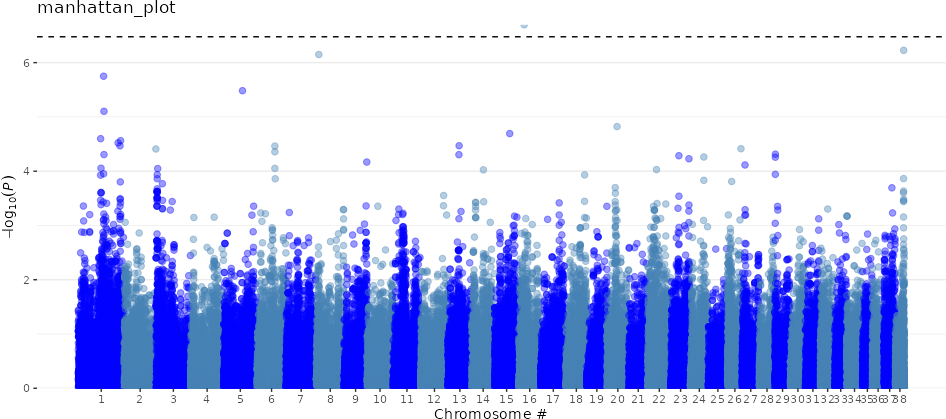
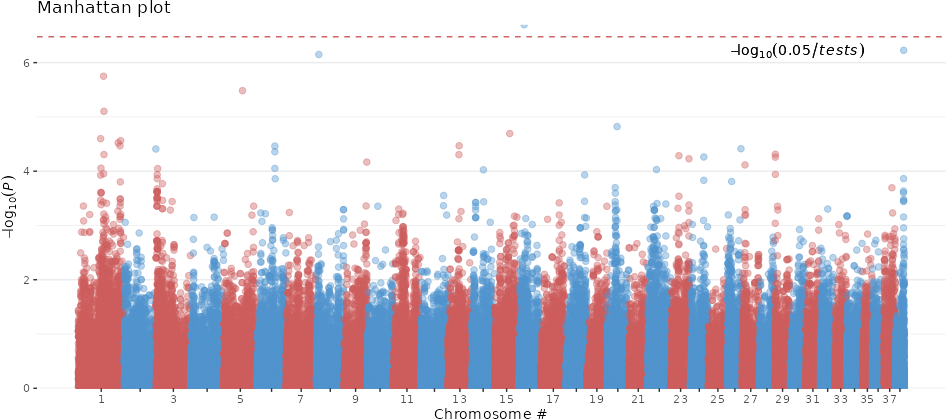
manhattan

diff --git a/README.md b/README.md
@@ -6,7 +6,7 @@ This repository contains a collection of genomic projects that I am working on.
 GitHub repository of bioinformatic projects recolving around genomics using
 different tools like Plink through `plinkr` R package, `rTASSEL` and TASSEL 5
 (GUI), GEMMA for mixed models analysis in R, SAMtools from the command line to
-analyze BAM files.
+analyze BAM files, gBLUP coming soon.
 
 The repository has been created for self-teaching purposes of biological concept
 and bioinformatic tools, and make use of other repositories, scripts and data
@@ -27,11 +27,14 @@ spatial arrangement reflects genetic dissimilarities. This exploratory analysis
 offers insights into genetic diversity, population structure, and relatedness.
 </small>
 
-2. GWAS manhattan plot of dog deafness. <br> _Data source_: **AAA**
+2. a. Manhattan plot of a GWAS on dog population for deafness. <br> _Data
+   source_: **Hayward et al.** (2020)
+   https://doi.org/10.1371/journal.pone.0232900
 
 ![plot_manhattan](Figures/manhattan_dogs.png?raw=true "manhattan plot for dog deafness")
-<small>**Multidimensional Scaling (MDS) Plot of a population of 4,653
-Individuals from 169 Goat Breeds genotyped with 49,953 SNPs.**</small>
+![plot_manhattan](Figures/manhattan_filter_acd.png?raw=true "manhattan plot for dog deafness")
+<small>**Manhattan plots showing the genome wide association between dog
+deafness**</small>
 
 ## Tools
 
